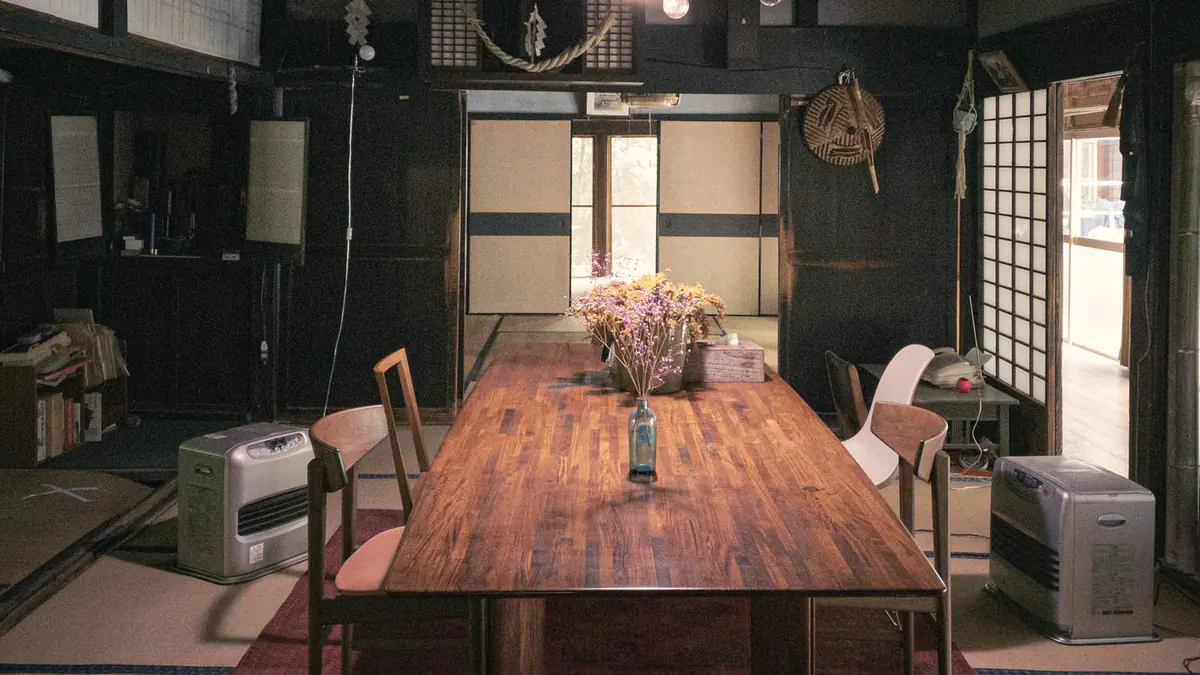
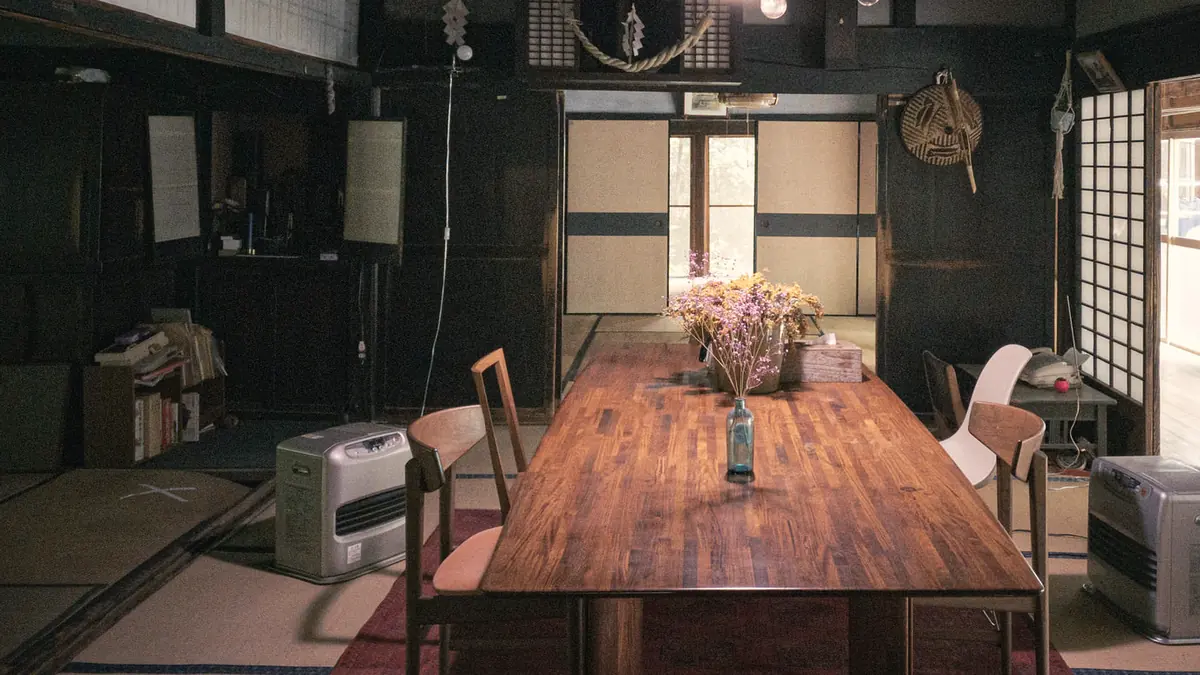
kurinokisha: rebalance hero copy and always open pages at the top
- Move the hero copy to the left so it balances the vase on the right
- Align the tops of the two vertical lines and keep the natural break
- Reset scroll position on page load (scrollRestoration manual)

Claude-Session: https://claude.ai/code/session_01HWNSjf7gAJ3mKETQWh9y87

diff --git a/kurinokisha/assets/style.css b/kurinokisha/assets/style.css
@@ -148,21 +148,25 @@ small { font-size: .8125rem; }
 .hero { position: relative; color: #FFF; background: var(--sumi); overflow: hidden; }
 .hero-photo { height: min(82svh, 720px); min-height: 460px; }
 .hero-photo img { width: 100%; height: 100%; object-fit: cover; }
-.hero::after { content: ""; position: absolute; inset: 0; background: linear-gradient(90deg, rgba(25, 19, 15, .55) 0%, rgba(25, 19, 15, .05) 45%, rgba(25, 19, 15, .1) 70%, rgba(25, 19, 15, .55) 100%); pointer-events: none; }
-.hero-copy { position: absolute; inset: 0; z-index: 2; padding: 32px var(--gut); display: flex; flex-direction: column; justify-content: space-between; align-items: flex-end; }
+/* 写真の主役（花瓶）が中央より右にあるので、文字は左にまとめて左右の重さをつり合わせる */
+.hero::after { content: ""; position: absolute; inset: 0; background: linear-gradient(90deg, rgba(25, 19, 15, .62) 0%, rgba(25, 19, 15, .38) 32%, rgba(25, 19, 15, .06) 58%, rgba(25, 19, 15, .12) 100%); pointer-events: none; }
+.hero-copy {
+  position: absolute; inset: 0; z-index: 2; padding: 40px var(--gut) 36px;
+  display: flex; flex-direction: column; justify-content: space-between; align-items: flex-start;
+}
 .hero-title {
   writing-mode: vertical-rl; text-orientation: upright; font-family: var(--f-mincho); font-weight: 500;
-  font-size: clamp(2rem, 1.4rem + 2.6vw, 3.4rem); letter-spacing: .24em; line-height: 1.7;
+  font-size: clamp(2rem, 1.4rem + 2.4vw, 3.2rem); letter-spacing: .22em; line-height: 1.9;
   text-shadow: 0 1px 18px rgba(0, 0, 0, .35);
 }
+/* 2行は頭をそろえる（縦書きの見出しは上の位置をそろえるのが基本） */
 .hero-title span { display: block; }
-.hero-title span + span { margin-top: 2.2em; }
-.hero-sub { align-self: flex-start; font-size: .95rem; line-height: 1.9; letter-spacing: .08em; text-shadow: 0 1px 12px rgba(0, 0, 0, .5); max-width: 22em; }
-.hero-en { display: none; position: absolute; z-index: 2; left: var(--gut); top: 28px; margin: 0; font-family: var(--f-en); font-style: italic; font-size: 1.05rem; letter-spacing: .06em; opacity: .9; }
+.hero-sub { font-size: .95rem; line-height: 1.9; letter-spacing: .08em; text-shadow: 0 1px 12px rgba(0, 0, 0, .5); max-width: 22em; margin: 0; }
+.hero-en { display: none; margin: 0 0 10px; font-family: var(--f-en); font-style: italic; font-size: 1.05rem; letter-spacing: .06em; opacity: .9; }
 @media (min-width: 1024px) {
   .hero-photo { height: min(86vh, 820px); }
-  .hero-copy { padding: 64px 72px; }
-  .hero-en { display: block; left: 72px; top: auto; bottom: 124px; font-size: 1.3rem; }
+  .hero-copy { padding: 72px 88px 64px; }
+  .hero-en { display: block; font-size: 1.25rem; }
   .hero-sub { font-size: 1.05rem; }
 }
 

diff --git a/kurinokisha/index.html b/kurinokisha/index.html
@@ -51,9 +51,11 @@
   <div class="hero-photo"><picture><source media="(max-width: 767px)" type="image/webp" srcset="assets/img/hero-sp-640.webp 640w, assets/img/hero-sp-881.webp 881w" sizes="100vw"><source media="(max-width: 767px)" srcset="assets/img/hero-sp-640.jpg 640w, assets/img/hero-sp-881.jpg 881w" sizes="100vw"><source type="image/webp" srcset="assets/img/hero-640.webp 640w, assets/img/hero-1200.webp 1200w, assets/img/hero-1376.webp 1376w" sizes="100vw"><img src="assets/img/hero-1200.jpg" srcset="assets/img/hero-640.jpg 640w, assets/img/hero-1200.jpg 1200w, assets/img/hero-1376.jpg 1376w" sizes="100vw" width="640" height="360" alt="古民家の店内。長い木のテーブルと、天井から下がるドライフラワー" fetchpriority="high"></picture></div>
   <div class="hero-copy">
     <h1 id="hero-title" class="hero-title"><span>栗の木の下で、</span><span>ひと息。</span></h1>
-    <p class="hero-sub">築九十年の蔵で淹れる、自家焙煎の珈琲と<br>小布施の栗の焼き菓子。</p>
+    <div class="hero-foot">
+      <p class="hero-en" aria-hidden="true">Coffee &amp; chestnut sweets, in an old storehouse.</p>
+      <p class="hero-sub">築九十年の蔵で淹れる、自家焙煎の珈琲と<br>小布施の栗の焼き菓子。</p>
+    </div>
   </div>
-  <p class="hero-en" aria-hidden="true">Coffee &amp; chestnut sweets, in an old storehouse.</p>
 </section>
 
 <div class="today-band">

diff --git a/kurinokisha/assets/main.js b/kurinokisha/assets/main.js
@@ -5,6 +5,20 @@
   var $ = function (s, r) { return (r || document).querySelector(s); };
   var $$ = function (s, r) { return Array.prototype.slice.call((r || document).querySelectorAll(s)); };
 
+  /* ページを移ったら、いつも一番上から見せる（#つきのリンクだけはその場所へ）。
+     ブラウザや埋めこみ表示が前のページのスクロール位置を引き継ぐことがあるため */
+  run("scrolltop", function () {
+    if ("scrollRestoration" in history) history.scrollRestoration = "manual";
+    var toTop = function () {
+      if (location.hash && location.hash.length > 1 && document.getElementById(location.hash.slice(1))) return;
+      window.scrollTo(0, 0);
+      // 枠の中で表示されているとき、外側の枠も先頭へ戻す
+      if (window.self !== window.top && document.body.scrollIntoView) document.body.scrollIntoView({ block: "start" });
+    };
+    toTop();
+    window.addEventListener("pageshow", function (e) { if (!e.persisted) toTop(); });
+  });
+
   /* ドロワー（Escape・背景で閉じる、フォーカスを中に閉じこめる） */
   run("drawer", function () {
     var btn = $(".menu-btn"), drawer = $("#drawer");

diff --git a/kurinokisha/src/page-index.html b/kurinokisha/src/page-index.html
@@ -2,9 +2,11 @@
   <div class="hero-photo">{{img:hero|古民家の店内。長い木のテーブルと、天井から下がるドライフラワー|eager full sp}}</div>
   <div class="hero-copy">
     <h1 id="hero-title" class="hero-title"><span>栗の木の下で、</span><span>ひと息。</span></h1>
-    <p class="hero-sub">築九十年の蔵で淹れる、自家焙煎の珈琲と<br>小布施の栗の焼き菓子。</p>
+    <div class="hero-foot">
+      <p class="hero-en" aria-hidden="true">Coffee &amp; chestnut sweets, in an old storehouse.</p>
+      <p class="hero-sub">築九十年の蔵で淹れる、自家焙煎の珈琲と<br>小布施の栗の焼き菓子。</p>
+    </div>
   </div>
-  <p class="hero-en" aria-hidden="true">Coffee &amp; chestnut sweets, in an old storehouse.</p>
 </section>
 
 <div class="today-band">

diff --git a/kurinokisha/tools/images.py b/kurinokisha/tools/images.py
@@ -15,8 +15,8 @@ WIDTHS = (640, 1200, 1600)
 
 # 名前: (元ファイル, 横:縦, 切り抜く中心の位置 x, y（0〜1）[, 寄る割合])
 PHOTOS = {
-    "hero": ("nerusan0614_1_TP_V.jpg", (16, 9), (0.5, 0.62), 0.86),
-    "hero-sp": ("nerusan0614_1_TP_V.jpg", (4, 5), (0.5, 0.6)),
+    "hero": ("nerusan0614_1_TP_V.jpg", (16, 9), (0.42, 0.62), 0.86),  # 花瓶を中央より少し右に（文字は左）
+    "hero-sp": ("nerusan0614_1_TP_V.jpg", (4, 5), (0.4, 0.6)),
     "kura": ("haro20211031-A7305044_TP_V.jpg", (4, 3), (0.45, 0.6)),
     "cup": ("ogasutaFJ04_TP_V.jpg", (3, 4), (0.32, 0.5)),
     "roast": ("kissaten-_92A6908-8905_TP_V.jpg", (4, 5), (0.5, 0.5)),
